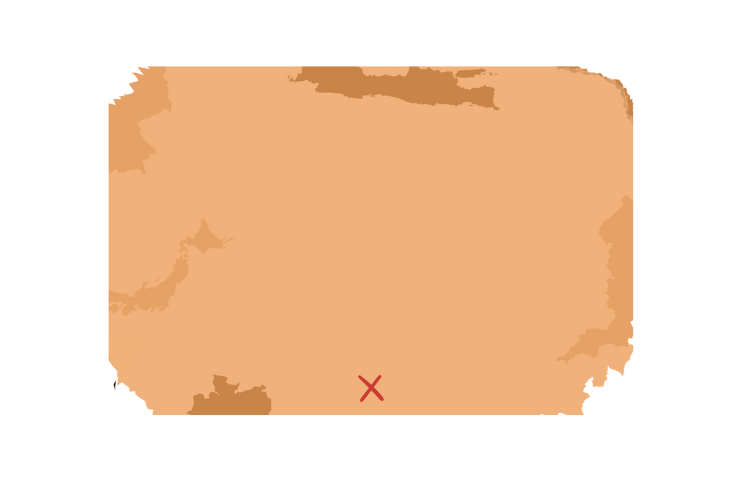
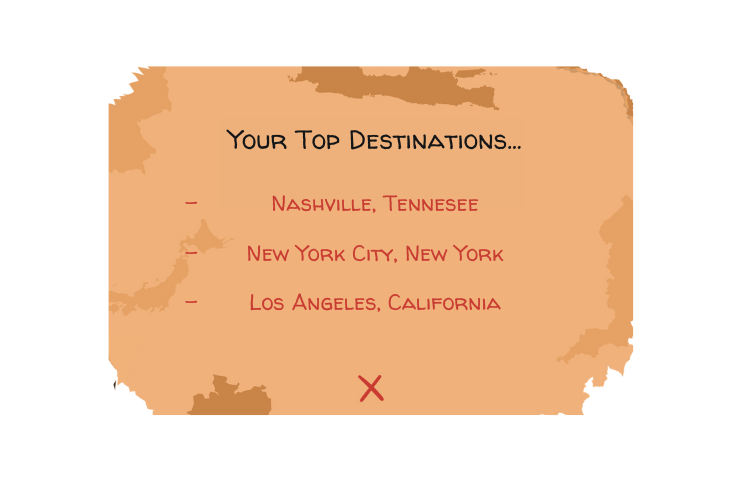
updated ui and closing ui
balalalala

diff --git a/uiboattrip/ui.js b/uiboattrip/ui.js
@@ -1,14 +1,38 @@
 // script.js
 
-// Function to show the boat scene after UI sequence
-function showTopDestinationPopup() {
-    const popup = document.getElementById('top-destination-popup');
-    popup.style.display = 'block'; // Show the pop-up
+let popupShown = false; // Variable to track if the popup has already been shown
 
-    // Hide the pop-up 20 seconds after it appears
+// Function to show the top destination pop-up 10 seconds after the boat scene starts
+function showTopDestinationPopup() {
+    // Only show the pop-up if it hasn't been shown yet
+    if (!popupShown) {
+        const popup = document.getElementById('top-destination-popup');
+        popup.style.display = 'block'; // Show the pop-up
+        popupShown = true; // Mark popup as shown
+
+        // Add event listener to hide the pop-up when it is clicked
+        popup.addEventListener('click', () => {
+            popup.style.display = 'none'; // Hide the pop-up on click
+            // Show the closeout message after 5 seconds
+            setTimeout(showCloseoutMessage, 5000); // 5 seconds delay
+        });
+    }
+}
+
+// Function to show the closeout message
+function showCloseoutMessage() {
+    const closeoutMessage = document.getElementById('closeout-message');
+    closeoutMessage.style.display = 'block'; // Show the closeout message
+
+    // Hide the boat scene and transition to backmove and backstill after a delay (e.g., 3 seconds)
     setTimeout(() => {
-        popup.style.display = 'none';
-    }, 10000); // 10 seconds
+        closeoutMessage.style.display = 'none'; // Hide the closeout message
+        document.getElementById('boat-scene').style.display = 'none'; // Hide boat scene
+
+        // You can also set background properties to only show backmove and backstill as required
+        document.body.style.background = "url('./assets/backbasics/backstill.png')";
+        document.body.style.backgroundSize = "cover";
+    }, 2500); // 3 seconds delay for closing the boat scene
 }
 
 // Modify the showBoatScene function to include the pop-up
@@ -20,8 +44,9 @@ function showBoatScene() {
     changeGenre('pop'); // Manually set the genre to 'pop' or any other genre
 
     // Show the top destination popup after 10 seconds
-    setTimeout(showTopDestinationPopup, 20000); // 15 seconds delay
+    setTimeout(showTopDestinationPopup, 10000); // 10 seconds delay
 }
+
 
 // Function to handle UI sequence transitions
 function runUISequence() {

diff --git a/uiboattrip/ui.css b/uiboattrip/ui.css
@@ -10,6 +10,17 @@ body {
     align-items: center;
 }
 
+#closeout-message {
+    position: absolute;
+    top: 50%; /* Center vertically */
+    left: 50%; /* Center horizontally */
+    transform: translate(-50%, -50%); /* Center perfectly */
+    width: 750px; /* Adjust the size as needed */
+    height: 500px; /* Adjust the size as needed */
+    z-index: 5; /* Ensure it's on top of other elements */
+    cursor: pointer;
+}
+
 #ui-sequence {
     width: 1500px; /* Match the background size for UI */
     height: 1000px; /* Match the background size for UI */
@@ -33,6 +44,7 @@ body {
     width: 750x; /* Adjust the size as needed */
     height: 500px;
     z-index: 4; /* Ensure it's on top of other elements */
+    cursor: pointer;
 }
 
 /* Each UI Page (Transparent PNG Overlay) */

diff --git a/uiboattrip/ui.html b/uiboattrip/ui.html
@@ -59,6 +59,11 @@
         <div id="top-destination-popup" style="display: none;">
             <img src="./assets/loginassets/topdestin.png" alt="Top Destination">
         </div>
+
+        <!-- Closeout Popup (Initially Hidden) -->
+        <div id="closeout-message" style="display: none;">
+            <img src="./assets/loginassets/closeout.png" alt="Safe Travels">
+        </div>
     </div>
 
     <!-- Link to JavaScript File -->
